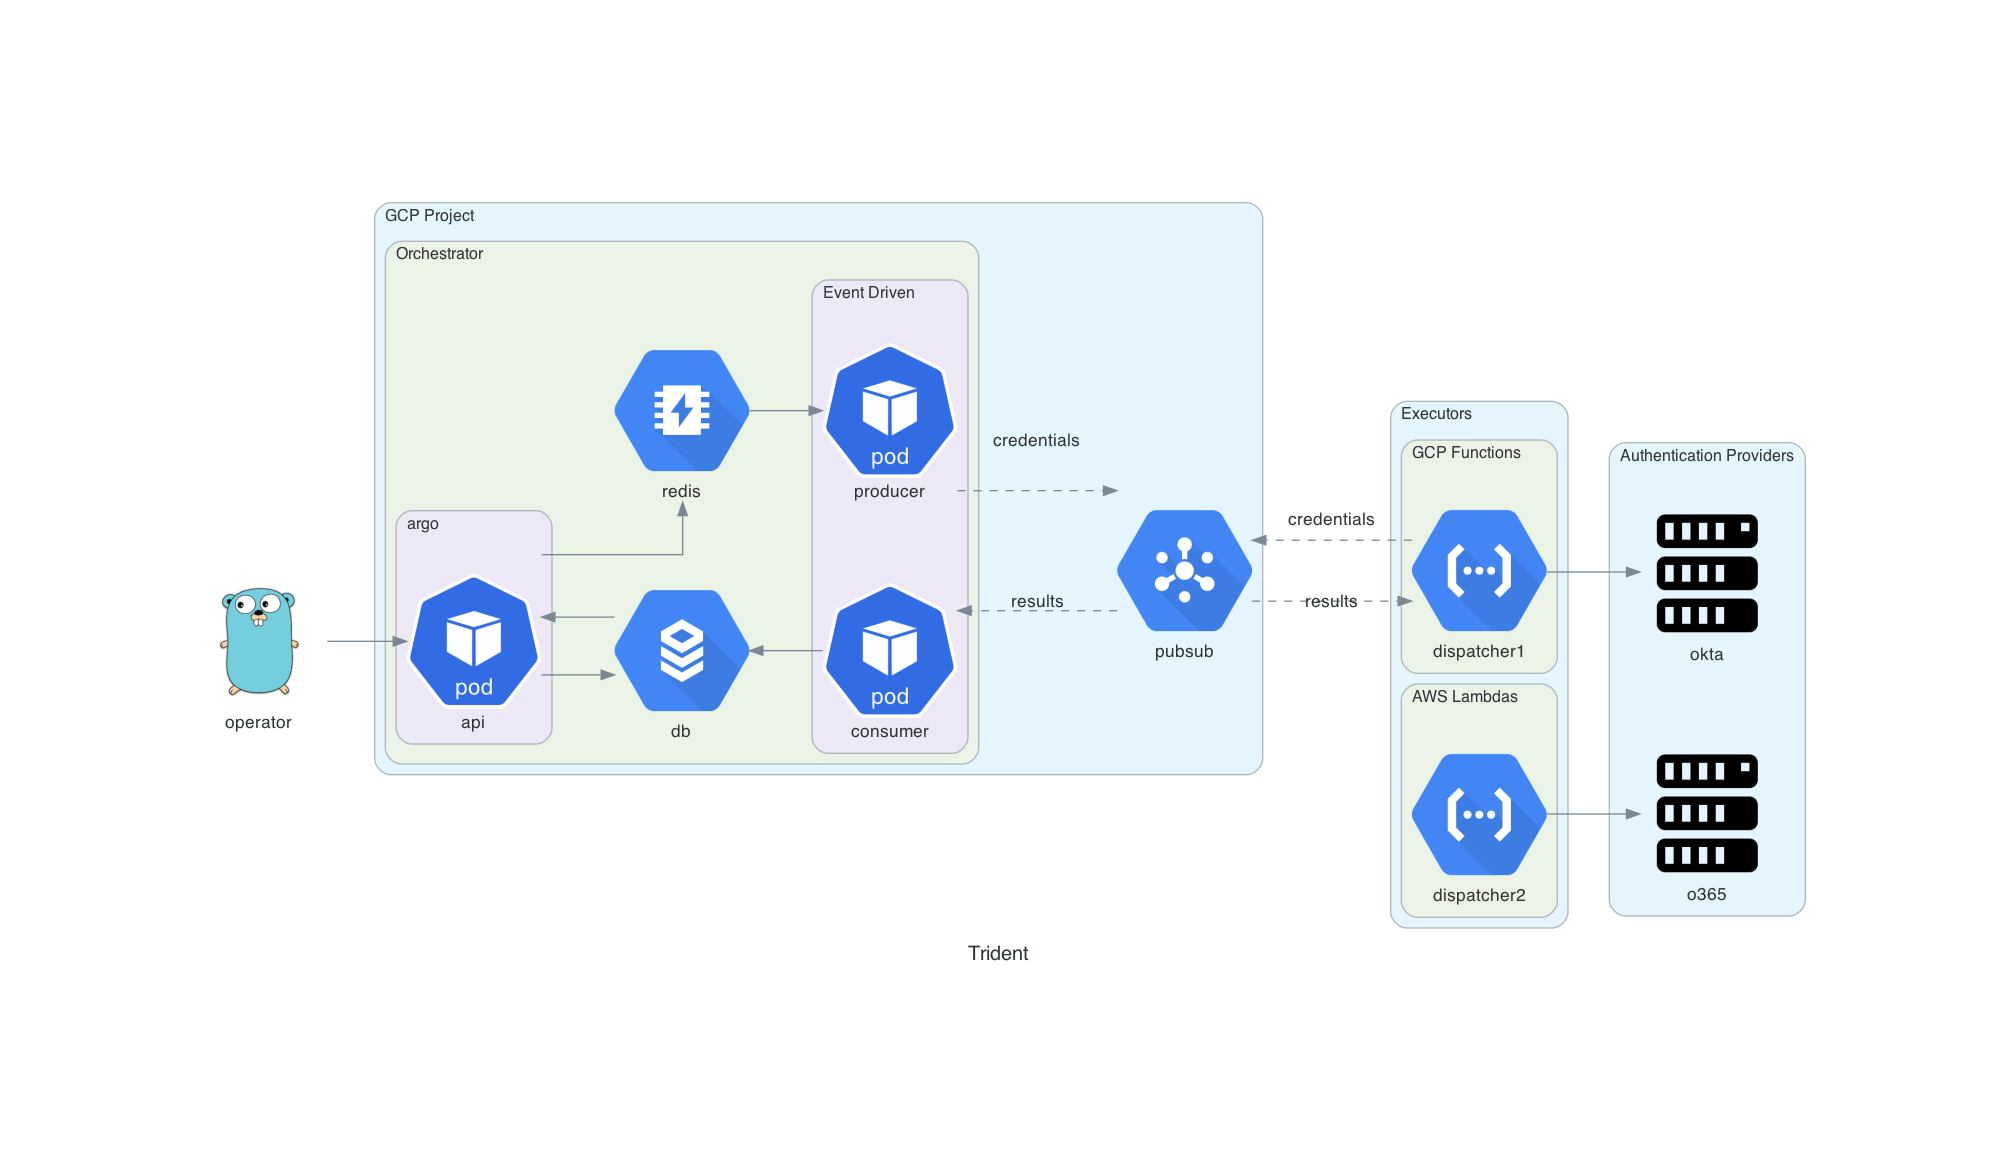
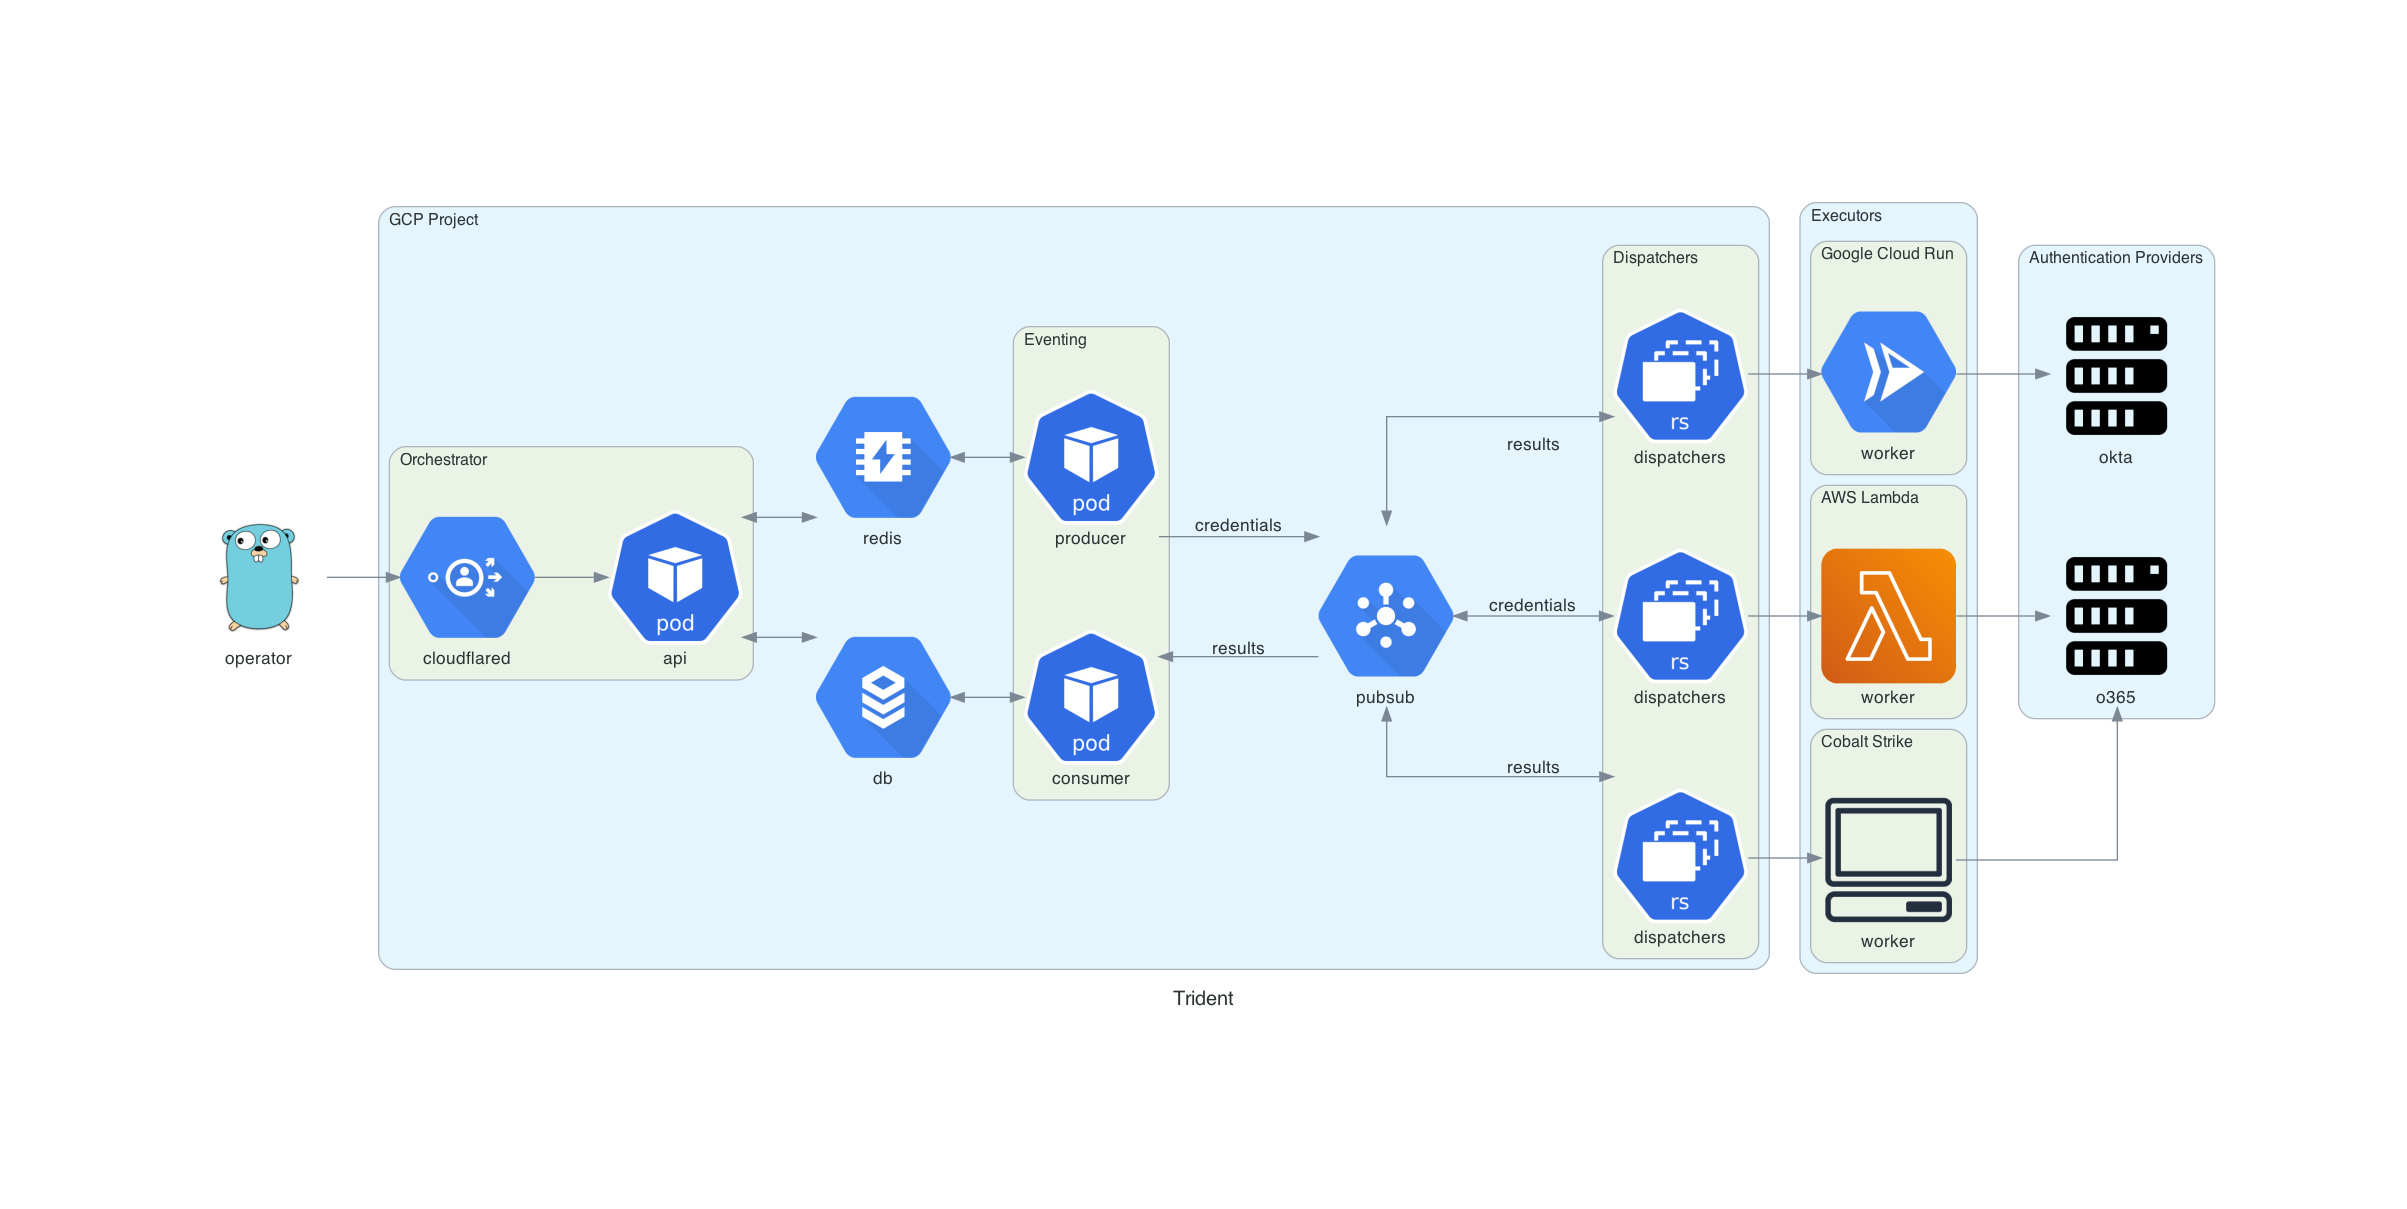
update docs based on ASR-37

Changed region(s): [[0.0931, 0.1546, 0.9314, 0.8351], [0.3105, 0.2474, 0.5278, 0.4639]]

diff --git a/docs/architecture.py b/docs/architecture.py
@@ -4,11 +4,14 @@
 #  > python diagram.py
 from diagrams import Cluster, Diagram, Edge
 from diagrams.gcp.analytics import PubSub
-from diagrams.gcp.compute import Functions
+from diagrams.gcp.compute import Run
 from diagrams.gcp.database import SQL, Memorystore
-from diagrams.k8s.compute import Pod
+from diagrams.gcp.security import IAP
+from diagrams.aws.compute import Lambda
+from diagrams.k8s.compute import Pod, ReplicaSet
 from diagrams.onprem.compute import Server as AuthProvider
 from diagrams.programming.language import Go
+from diagrams.onprem.client import Client
 import os
 
 # find docs/ directory to save png to
@@ -22,38 +25,56 @@ with Diagram("Trident", filename=output, direction="LR", show=False):
     with Cluster("GCP Project"):
 
         with Cluster("Orchestrator"):
-            with Cluster("argo"):
-                api = Pod("api")
+            api = Pod("api")
+            cloudflare = IAP("cloudflared")
 
-            with Cluster("Event Driven"):
-                producer = Pod("producer")
-                consumer = Pod("consumer")
-        
-            db = SQL("db")
-            cache = Memorystore("redis")
+        with Cluster("Eventing"):
+            producer = Pod("producer")
+            consumer = Pod("consumer")
+    
+        db = SQL("db")
+        cache = Memorystore("redis")
+
+        with Cluster("Dispatchers"):
+            dispatcher1 = ReplicaSet("dispatchers")
+            dispatcher2 = ReplicaSet("dispatchers")
+            dispatcher3 = ReplicaSet("dispatchers")
 
         pubsub = PubSub("pubsub")
 
-        go >> api
-        api >> db
-        api >> cache
-        cache >> producer >> Edge(label="credentials", style="dashed") >> pubsub
-        pubsub >> Edge(label="results", style="dashed") >> consumer >> db >> api
+        go >> cloudflare >> api
+        api >> Edge() << db
+        api >> Edge() << cache
+        db >> Edge() << consumer
+        cache >> Edge() << producer
+
+        producer >> Edge(label="credentials") >> pubsub
+        pubsub >> Edge(label="results") >> consumer
+
+        pubsub >> Edge(label="results") << dispatcher1
+        pubsub >> Edge(label="credentials") << dispatcher2
+        pubsub >> Edge(label="results") << dispatcher3
 
     with Cluster("Executors"):
 
-        with Cluster("GCP Functions"):
-            dispatch_gcp = Functions("dispatcher1")
+        with Cluster("Google Cloud Run"):
+            worker_gcp = Run("worker")
 
-        with Cluster("AWS Lambdas"):
-            dispatch_aws = Functions("dispatcher2")
+        with Cluster("AWS Lambda"):
+            worker_aws = Lambda("worker")
+
+        with Cluster("Cobalt Strike"):
+            worker_cs = Client("worker")
     
     with Cluster("Authentication Providers"):
         okta = AuthProvider("okta")
         o365 = AuthProvider("o365")
 
-    pubsub >> Edge(label="credentials", style="dashed") >> dispatch_gcp
-    dispatch_gcp >> Edge(label="results", style="dashed") >> pubsub
+    dispatcher1 >> worker_gcp
+    dispatcher2 >> worker_aws
+    dispatcher3 >> worker_cs
 
-    dispatch_gcp >> okta
-    dispatch_aws >> o365
+    worker_gcp >> okta
+    worker_aws >> o365
+    worker_cs >> o365
+
